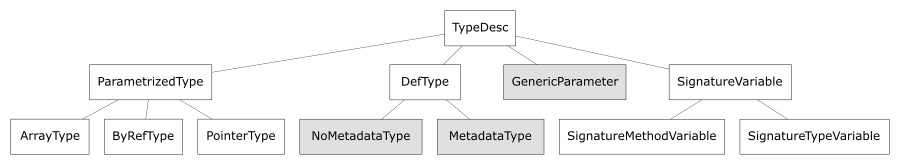
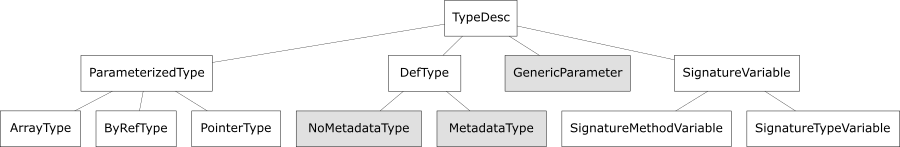
Fix a couple typos in type system document

diff --git a/Documentation/botr/type-system.md b/Documentation/botr/type-system.md
@@ -25,7 +25,7 @@ Low overhead is achieved by lazy loading - instead of eagerly populating the typ
 
 Where necessary, partial classes, extension methods, and pluggable algorithms are used to achieve goal 3 instead of polymorphism and object hierarchies. The reusability of the type system is at the source level (source-including different sets of files to get different features). This allows extensibility without making sacrifices that would take us away from goal 1.
 
-The type system in its purest form (i.e. without any partial class extensions) tries to avoid introducing concepts that are not defined in the [ECMA-335 specification](http://www.ecma-international.org/publications/standards/Ecma-335.htm). The specification is a suggested pre-requisite reading to this document and provides definitions to various terms used in this document.
+The type system in its purest form (i.e. without any partial class extensions) tries to avoid introducing concepts that are not defined in the [ECMA-335 specification](http://www.ecma-international.org/publications/standards/Ecma-335.htm). The specification is a suggested prerequisite reading to this document and provides definitions to various terms used in this document.
 
 ## Relationship with metadata
 
@@ -51,7 +51,7 @@ Following section goes briefly over the classes representing types within the ty
 
 `TypeDesc` is the base class of all types within the type system. It defines a list of operations all classes must support. Not all operations might make sense for all the children of `TypeDesc` (for example, it doesn't make sense to request a list of methods on a pointer type), but care is taken to provide an implementation that makes sense for each particular child (i.e. the list of methods on a pointer type is empty).
 
-### ParametrizedType (ArrayType, ByRefType, PointerType)
+### ParameterizedType (ArrayType, ByRefType, PointerType)
 
 These are constructed types with a single parameter:
 
@@ -63,7 +63,7 @@ Note the distinction between multidimensional arrays of rank 1 and vectors is a 
 
 ### DefType (NoMetadataType, MetadataType)
 
-`DefType` represents a value type, interface, or a class. While most instances of `DefType` will be of children of `MetadataType` (a type that is based off of some concrete metadata describing the type in full), there will be scenarios where full metadata is no longer available. In those cases, only restricted information (such as the number of bytes occupied by the instance of the type on the GC heap, or whether the type is a value type) is available. It is important that the type system is able to operate on such types. E.g. it should be possible for a type with restricted metadata to be a base type for a type with full metadata and the field layout algorithm should be able to compute the field layout of such type.
+`DefType` represents a value type, interface, or a class. While most instances of `DefType` will be of children of `MetadataType` (a type that is based off of some concrete metadata describing the type in full), there will be scenarios where full metadata is no longer available. In those cases, only restricted information (such as the number of bytes occupied by the instance of the type on the GC heap, or whether the type is a value type) is available. It is important that the type system is able to operate on such types. E.g. it should be possible for a type with restricted metadata to be a base type for a type with full metadata and the field layout algorithm should be able to compute the field layout of such a type.
 
 ### GenericParameter
 
